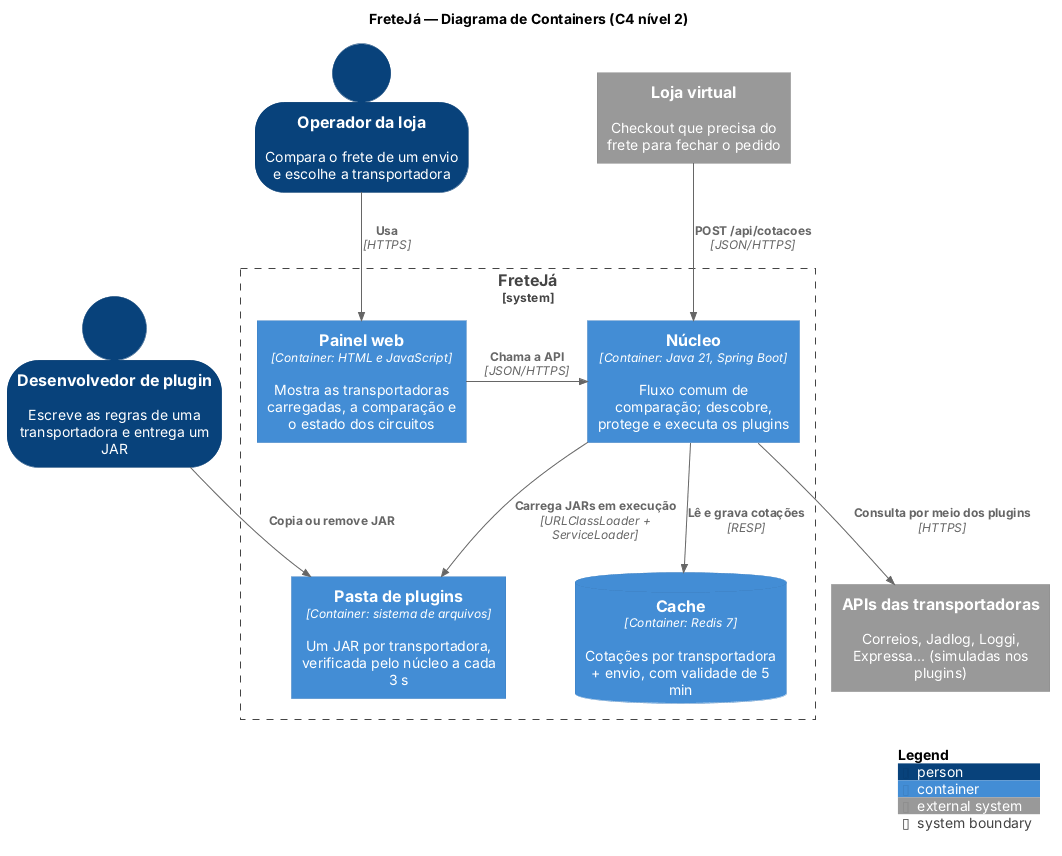
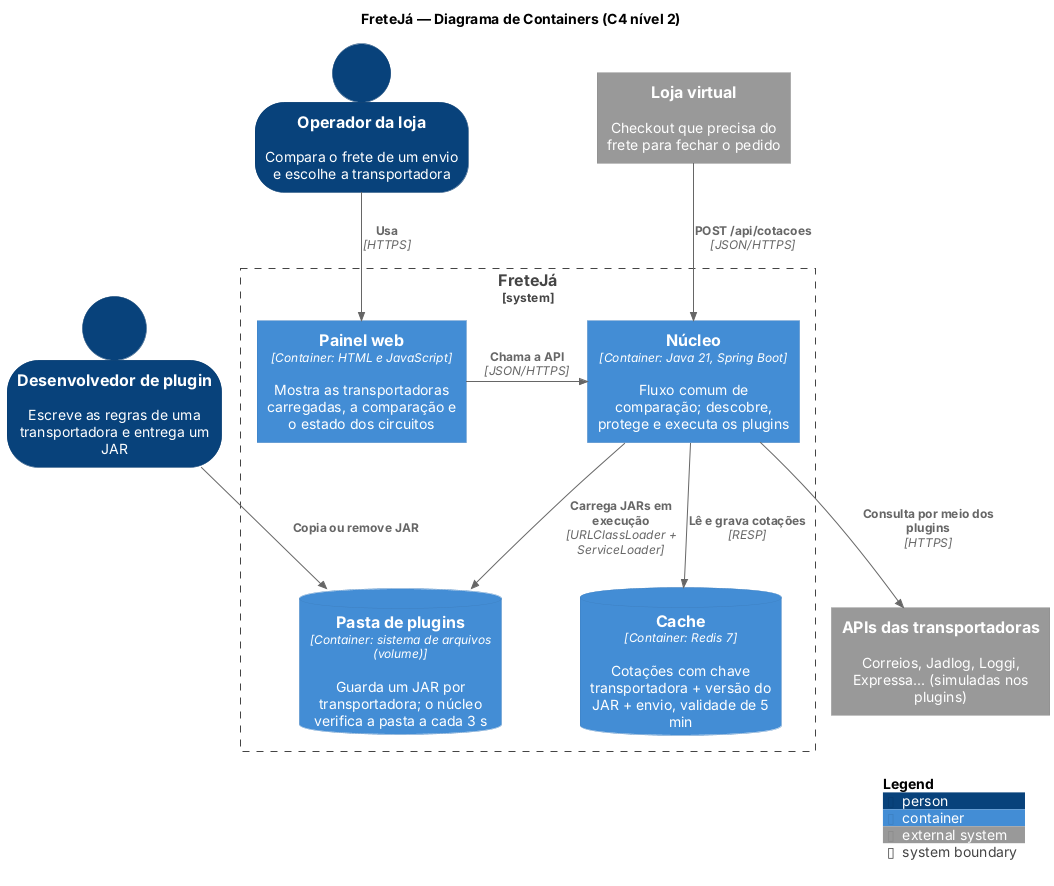
refactor(cache): chave versionada pelo hash do JAR no lugar da limpeza do cache
A versão de cada plugin (começo do SHA-256 do JAR) entra na chave do @Cacheable.
Trocar um JAR gera chaves novas só para aquela transportadora; nada é apagado e as
entradas antigas expiram em 5 min. Remove o InvalidadorDeCache, que zerava o cache
a cada reinício e, com réplicas, apagava o cache das outras. ADR-003 revisado; C4
ajustado (pasta de plugins como armazenamento, componente do invalidador removido).

diff --git a/nucleo/src/main/resources/static/index.html b/nucleo/src/main/resources/static/index.html
@@ -27,6 +27,7 @@
   th { text-align: left; color: var(--suave); font-weight: 500; padding: 6px 8px; border-bottom: 1px solid var(--linha); }
   td { padding: 9px 8px; border-bottom: 1px solid #eef0f1; vertical-align: top; }
   code { font: 12px ui-monospace, Consolas, monospace; color: var(--suave); }
+  .versao { font-size: 12px; color: var(--suave); }
   .selo { display: inline-block; padding: 2px 9px; border-radius: 99px; font-size: 12px; font-weight: 600; white-space: nowrap; }
   .CLOSED, .COTADA { background: var(--verde-claro); color: var(--verde); }
   .OPEN, .INDISPONIVEL { background: var(--vermelho-claro); color: var(--vermelho); }
@@ -166,7 +167,7 @@ async function atualizarTransportadoras() {
         const chave = t.id + "|" + t.arquivo + "|" + t.carregadoEm;
         const nova = conhecidas.size && !conhecidas.has(chave) ? "novo" : "";
         return `<tr class="${nova}"><td><strong>${escapar(t.nome)}</strong><br><code>${escapar(t.id)}</code></td>
-                <td><code>${escapar(t.arquivo)}</code></td>
+                <td><code>${escapar(t.arquivo)}</code><br><span class="versao">versão ${escapar(t.versao)}</span></td>
                 <td>${new Date(t.carregadoEm).toLocaleTimeString("pt-BR")}</td>
                 <td>${selo(t.circuito, rotuloCircuito[t.circuito] || t.circuito)}</td></tr>`;
       }).join("");

diff --git a/nucleo/src/main/java/br/edu/ifsp/freteja/nucleo/plugin/CarregadorDePlugins.java b/nucleo/src/main/java/br/edu/ifsp/freteja/nucleo/plugin/CarregadorDePlugins.java
@@ -9,10 +9,13 @@ import java.net.URL;
 import java.net.URLClassLoader;
 import java.nio.file.Files;
 import java.nio.file.Path;
+import java.security.MessageDigest;
+import java.security.NoSuchAlgorithmException;
 import java.time.Instant;
 import java.util.ArrayList;
 import java.util.HashMap;
 import java.util.HashSet;
+import java.util.HexFormat;
 import java.util.List;
 import java.util.Map;
 import java.util.ServiceConfigurationError;
@@ -74,15 +77,16 @@ public class CarregadorDePlugins implements AutoCloseable {
         URLClassLoader loader = null;
         List<String> ids = new ArrayList<>();
         try {
+            String versao = versaoDe(jar);
             loader = new URLClassLoader("plugin:" + jar.getFileName(), new URL[]{jar.toUri().toURL()}, pai);
             for (Transportadora transportadora : ServiceLoader.load(Transportadora.class, loader)) {
                 if (transportadora.getClass().getClassLoader() != loader) {
                     continue;
                 }
                 String id = transportadora.id();
-                registro.registrar(new PluginCarregado(transportadora, jar.getFileName().toString(), Instant.now()));
+                registro.registrar(new PluginCarregado(transportadora, jar.getFileName().toString(), versao, Instant.now()));
                 ids.add(id);
-                LOG.log(Level.INFO, "Plugin carregado: {0} ({1}) de {2}", id, transportadora.nome(), jar.getFileName());
+                LOG.log(Level.INFO, "Plugin carregado: {0} ({1}) de {2}, versão {3}", id, transportadora.nome(), jar.getFileName(), versao);
                 ouvintes.forEach(o -> o.pluginCarregado(id));
             }
             if (ids.isEmpty()) {
@@ -123,6 +127,15 @@ public class CarregadorDePlugins implements AutoCloseable {
         } catch (IOException e) {
             LOG.log(Level.ERROR, "Não foi possível ler a pasta de plugins " + diretorio, e);
             return Set.copyOf(jars.keySet());
+        }
+    }
+
+    static String versaoDe(Path jar) throws IOException {
+        try {
+            MessageDigest sha256 = MessageDigest.getInstance("SHA-256");
+            return HexFormat.of().formatHex(sha256.digest(Files.readAllBytes(jar))).substring(0, 12);
+        } catch (NoSuchAlgorithmException e) {
+            throw new IllegalStateException("SHA-256 sempre existe na JVM", e);
         }
     }
 

diff --git a/nucleo/src/main/java/br/edu/ifsp/freteja/nucleo/config/ConfiguracaoDoNucleo.java b/nucleo/src/main/java/br/edu/ifsp/freteja/nucleo/config/ConfiguracaoDoNucleo.java
@@ -1,6 +1,5 @@
 package br.edu.ifsp.freteja.nucleo.config;
 
-import br.edu.ifsp.freteja.nucleo.cotacao.InvalidadorDeCache;
 import br.edu.ifsp.freteja.nucleo.execucao.ExecutorIsolado;
 import br.edu.ifsp.freteja.nucleo.plugin.CarregadorDePlugins;
 import br.edu.ifsp.freteja.nucleo.plugin.RegistroDePlugins;
@@ -8,7 +7,6 @@ import io.github.resilience4j.circuitbreaker.CircuitBreakerConfig;
 import io.github.resilience4j.circuitbreaker.CircuitBreakerConfig.SlidingWindowType;
 import io.github.resilience4j.circuitbreaker.CircuitBreakerRegistry;
 import org.springframework.beans.factory.annotation.Value;
-import org.springframework.cache.CacheManager;
 import org.springframework.context.annotation.Bean;
 import org.springframework.context.annotation.Configuration;
 
@@ -50,17 +48,11 @@ public class ConfiguracaoDoNucleo {
         return new ExecutorIsolado(circuitos, Duration.ofMillis(tempoLimiteMs));
     }
 
-    @Bean
-    public InvalidadorDeCache invalidadorDeCache(CacheManager cacheManager) {
-        return new InvalidadorDeCache(cacheManager);
-    }
-
     @Bean(destroyMethod = "close")
     public CarregadorDePlugins carregadorDePlugins(
             @Value("${plugins.diretorio:./plugins-ativos}") String diretorio,
             RegistroDePlugins registro,
-            ExecutorIsolado executor,
-            InvalidadorDeCache invalidador) {
-        return new CarregadorDePlugins(Path.of(diretorio), registro, List.of(executor, invalidador));
+            ExecutorIsolado executor) {
+        return new CarregadorDePlugins(Path.of(diretorio), registro, List.of(executor));
     }
 }

diff --git a/nucleo/src/test/java/br/edu/ifsp/freteja/nucleo/plugin/CarregadorDePluginsTest.java b/nucleo/src/test/java/br/edu/ifsp/freteja/nucleo/plugin/CarregadorDePluginsTest.java
@@ -1,0 +1,38 @@
+package br.edu.ifsp.freteja.nucleo.plugin;
+
+import org.junit.jupiter.api.Test;
+import org.junit.jupiter.api.io.TempDir;
+
+import java.io.IOException;
+import java.nio.file.Files;
+import java.nio.file.Path;
+import java.nio.file.attribute.FileTime;
+import java.time.Instant;
+
+import static org.assertj.core.api.Assertions.assertThat;
+
+class CarregadorDePluginsTest {
+
+    @TempDir
+    Path pasta;
+
+    @Test
+    void mesmoConteudoDaMesmaVersaoMesmoComOutroNomeOuData() throws IOException {
+        Path original = Files.write(pasta.resolve("plugin-loggi.jar"), new byte[]{1, 2, 3});
+        Path copia = Files.copy(original, pasta.resolve("outra-replica.jar"));
+        Files.setLastModifiedTime(copia, FileTime.from(Instant.EPOCH));
+
+        assertThat(CarregadorDePlugins.versaoDe(original)).hasSize(12);
+        assertThat(CarregadorDePlugins.versaoDe(copia)).isEqualTo(CarregadorDePlugins.versaoDe(original));
+    }
+
+    @Test
+    void conteudoDiferenteDaOutraVersao() throws IOException {
+        Path antiga = Files.write(pasta.resolve("plugin-expressa.jar"), new byte[]{1, 2, 3});
+        String versaoAntiga = CarregadorDePlugins.versaoDe(antiga);
+
+        Files.write(antiga, new byte[]{1, 2, 4});
+
+        assertThat(CarregadorDePlugins.versaoDe(antiga)).isNotEqualTo(versaoAntiga);
+    }
+}

diff --git a/nucleo/src/main/java/br/edu/ifsp/freteja/nucleo/web/FreteController.java b/nucleo/src/main/java/br/edu/ifsp/freteja/nucleo/web/FreteController.java
@@ -39,7 +39,7 @@ public class FreteController {
     @GetMapping("/transportadoras")
     public List<TransportadoraAtiva> transportadoras() {
         return registro.listar().stream()
-                .map(p -> new TransportadoraAtiva(p.id(), p.nome(), p.arquivo(), p.carregadoEm(), executor.estadoDe(p.id())))
+                .map(p -> new TransportadoraAtiva(p.id(), p.nome(), p.arquivo(), p.versao(), p.carregadoEm(), executor.estadoDe(p.id())))
                 .toList();
     }
 

diff --git a/nucleo/src/main/java/br/edu/ifsp/freteja/nucleo/web/Pedidos.java b/nucleo/src/main/java/br/edu/ifsp/freteja/nucleo/web/Pedidos.java
@@ -46,6 +46,6 @@ public final class Pedidos {
                                        List<ItemDaComparacao> cotacoes, long tempoMs) {
     }
 
-    public record TransportadoraAtiva(String id, String nome, String arquivo, Instant carregadoEm, String circuito) {
+    public record TransportadoraAtiva(String id, String nome, String arquivo, String versao, Instant carregadoEm, String circuito) {
     }
 }

diff --git a/nucleo/src/main/java/br/edu/ifsp/freteja/nucleo/cotacao/CotadorDeTransportadora.java b/nucleo/src/main/java/br/edu/ifsp/freteja/nucleo/cotacao/CotadorDeTransportadora.java
@@ -18,7 +18,7 @@ public class CotadorDeTransportadora {
     }
 
     @Cacheable(cacheNames = "cotacoes",
-            key = "#plugin.id() + ':' + #envio.chave()",
+            key = "#plugin.id() + ':' + #plugin.versao() + ':' + #envio.chave()",
             unless = "#result.indisponivel()")
     public CotacaoDeFrete cotar(PluginCarregado plugin, Envio envio) {
         try {

diff --git a/nucleo/src/main/java/br/edu/ifsp/freteja/nucleo/plugin/PluginCarregado.java b/nucleo/src/main/java/br/edu/ifsp/freteja/nucleo/plugin/PluginCarregado.java
@@ -4,7 +4,7 @@ import br.edu.ifsp.freteja.api.Transportadora;
 
 import java.time.Instant;
 
-public record PluginCarregado(Transportadora transportadora, String arquivo, Instant carregadoEm) {
+public record PluginCarregado(Transportadora transportadora, String arquivo, String versao, Instant carregadoEm) {
 
     public String id() {
         return transportadora.id();

diff --git a/nucleo/src/test/java/br/edu/ifsp/freteja/nucleo/ComparadorDeFreteTest.java b/nucleo/src/test/java/br/edu/ifsp/freteja/nucleo/ComparadorDeFreteTest.java
@@ -48,7 +48,7 @@ class ComparadorDeFreteTest {
     }
 
     private void instalar(Transportadora transportadora) {
-        registro.registrar(new PluginCarregado(transportadora, transportadora.id() + ".jar", Instant.now()));
+        registro.registrar(new PluginCarregado(transportadora, transportadora.id() + ".jar", "teste", Instant.now()));
     }
 
     @Test

diff --git a/README.md b/README.md
@@ -40,8 +40,7 @@ freteja/
 │   │   └── ExecutorIsolado       ÚNICO ponto que chama plugin: circuit breaker + tempo limite
 │   ├── cotacao/
 │   │   ├── ComparadorDeFrete     consulta todas em paralelo e ordena
-│   │   ├── CotadorDeTransportadora  cotação de uma transportadora + @Cacheable
-│   │   └── InvalidadorDeCache    limpa o cache quando um plugin muda
+│   │   └── CotadorDeTransportadora  cotação de uma transportadora + @Cacheable (chave com a versão do JAR)
 │   ├── config/               montagem (Spring) e verificação periódica da pasta
 │   └── web/                  API REST + painel em /index.html
 │
@@ -57,7 +56,7 @@ freteja/
 1. O painel (ou a loja) envia `POST /api/cotacoes` com o envio.
 2. O `ComparadorDeFrete` pega no `RegistroDePlugins` as transportadoras carregadas e dispara **uma
    thread virtual por transportadora**: a resposta demora o tempo da mais lenta, não a soma.
-3. Para cada uma, o `CotadorDeTransportadora` procura no cache (`id + envio`). Se não houver, chama
+3. Para cada uma, o `CotadorDeTransportadora` procura no cache (`id + versão do JAR + envio`). Se não houver, chama
    o `ExecutorIsolado`, que passa pelo **circuit breaker** daquela transportadora e executa `cotar()`
    com **tempo limite de 2 s**.
 4. Falha, demora ou circuito aberto viram `INDISPONIVEL` só para aquela transportadora; as outras
@@ -68,7 +67,12 @@ freteja/
 **Como um plugin é descoberto:** o núcleo verifica `plugins-ativos/` a cada 3 s. Para cada JAR novo,
 cria um `URLClassLoader` só para ele e usa `ServiceLoader` para achar as classes que implementam
 `Transportadora` (declaradas em `META-INF/services/`). JAR apagado → plugin removido. JAR substituído →
-versão nova carregada, circuito zerado e cache limpo. Nada disso exige reiniciar.
+versão nova carregada e circuito zerado. Nada disso exige reiniciar.
+
+**Como o cache acompanha os plugins:** cada JAR carregado ganha uma versão, o começo do SHA-256 do
+seu conteúdo, e ela entra na chave do cache. Trocar o JAR de uma transportadora gera chaves novas só
+para ela; as outras continuam saindo do cache, e as entradas antigas expiram sozinhas em 5 min. Como a
+versão depende só do conteúdo, reiniciar o núcleo ou subir outra réplica encontra as mesmas chaves.
 
 **Restrições do estilo, verificadas no build** (`ArquiteturaTest`, ArchUnit):
 1. o núcleo nunca depende de uma transportadora concreta;
@@ -124,8 +128,9 @@ Correios R$ 26,05 (menor preço) e Jadlog R$ 27,05, origem `PLUGIN`, ~600 ms.
 ```bash
 ./scripts/instalar.sh loggi
 ```
-Em poucos segundos *Loggi* aparece na lista (linha destacada). Compare de novo → Loggi R$ 19,80 vira
-o **menor preço**. Nenhum restart. Troque o destino para o Rio (`20040-020`) → Loggi responde
+Em poucos segundos *Loggi* aparece na lista (linha destacada), com a versão do JAR. Compare de novo →
+Loggi R$ 19,80 vira o **menor preço**, com origem `PLUGIN`, enquanto Correios e Jadlog continuam com
+origem `CACHE`: só a transportadora nova foi consultada. Nenhum restart. Troque o destino para o Rio (`20040-020`) → Loggi responde
 **NÃO ATENDE** (só entrega dentro do estado) e Jadlog passa a ser a mais barata.
 
 **4. Circuit breaker.** Volte o destino para `01310-100` e instale a transportadora com defeito:
@@ -294,6 +299,7 @@ mvn test
   circuito abre e para de consultar, as outras continuam cotando, recarregar o plugin zera o circuito.
 - `EnvioTest` — CEP, distância, peso cúbico e chave de cache.
 - `MonitorDeTrafegoTest` — contagem por segundo e classificação por origem (plugin, cache, falha).
+- `CarregadorDePluginsTest` — a versão do plugin (que entra na chave do cache) depende só do conteúdo do JAR.
 
 ---
 

diff --git a/docs/adr/ADR-001-microkernel.md b/docs/adr/ADR-001-microkernel.md
@@ -33,6 +33,8 @@ Adotar **microkernel com descoberta dinâmica de plugins**:
 - o núcleo verifica uma pasta a cada 3 s e, para cada JAR, cria um `URLClassLoader` próprio e
   descobre as implementações via `ServiceLoader`. JAR novo é carregado, JAR substituído é recarregado,
   JAR apagado é removido — sem reiniciar o núcleo;
+- cada plugin carregado ganha uma **versão**, o começo do SHA-256 do JAR, que o cache usa na chave
+  (ADR-003);
 - o núcleo consulta todas as transportadoras **em paralelo** (uma thread virtual por transportadora),
   então a comparação demora o tempo da mais lenta, não a soma.
 
